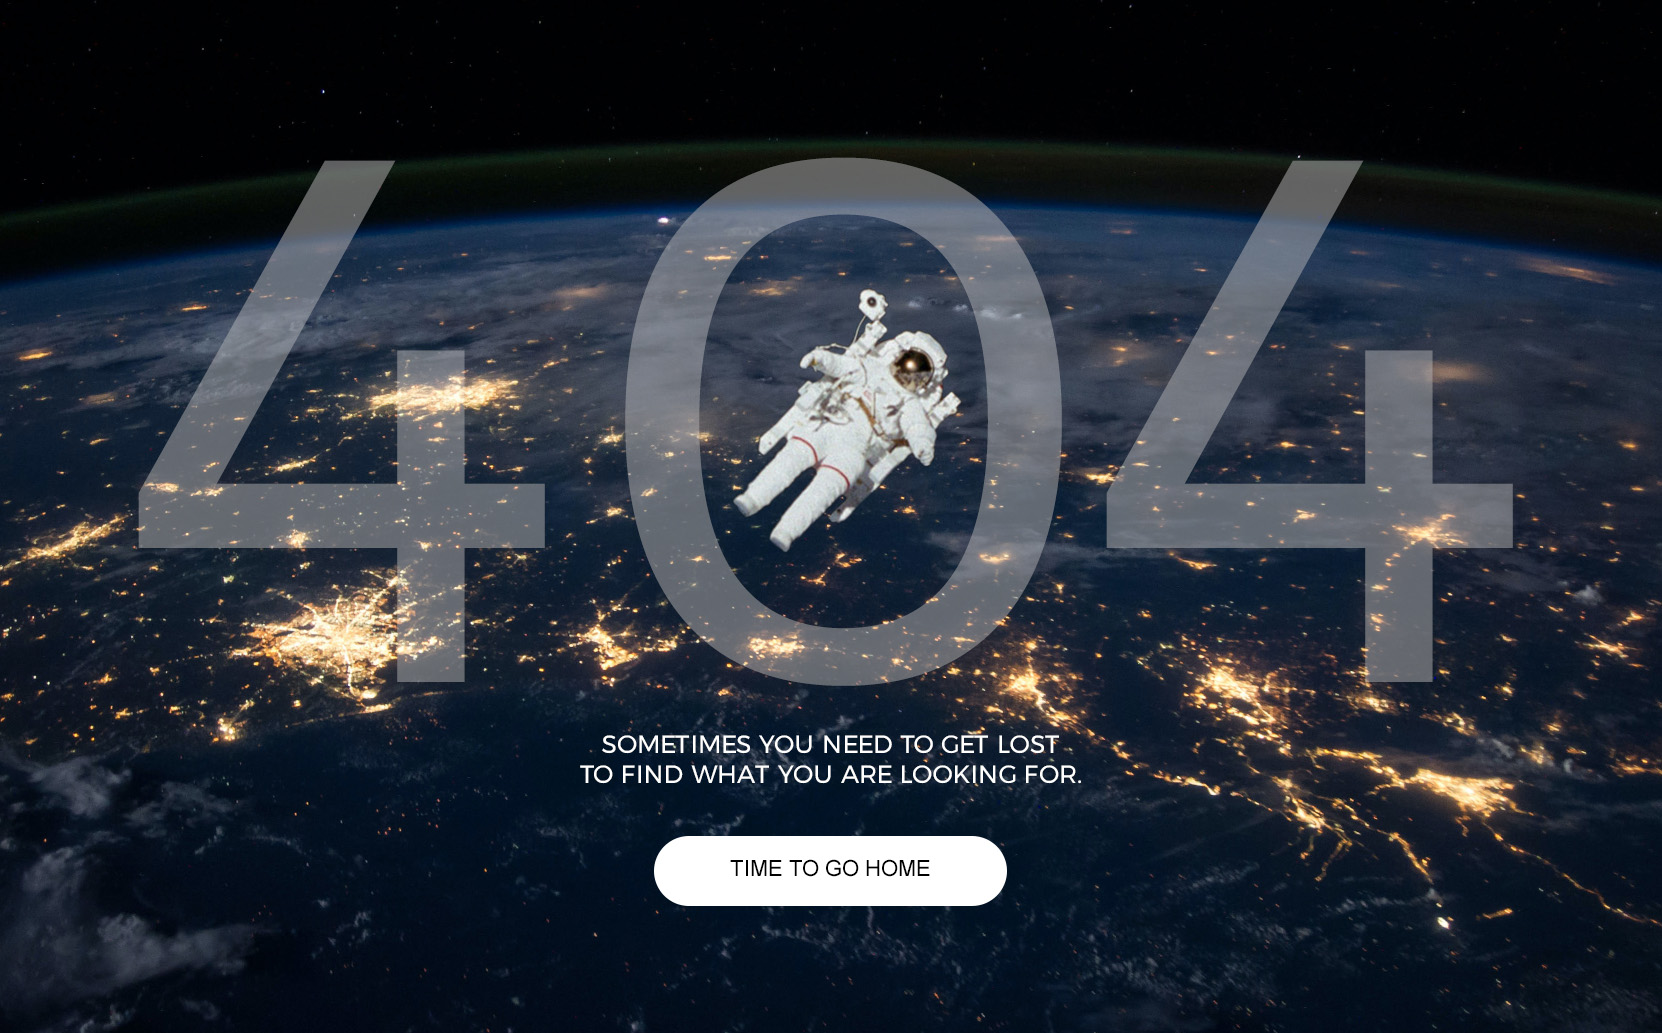
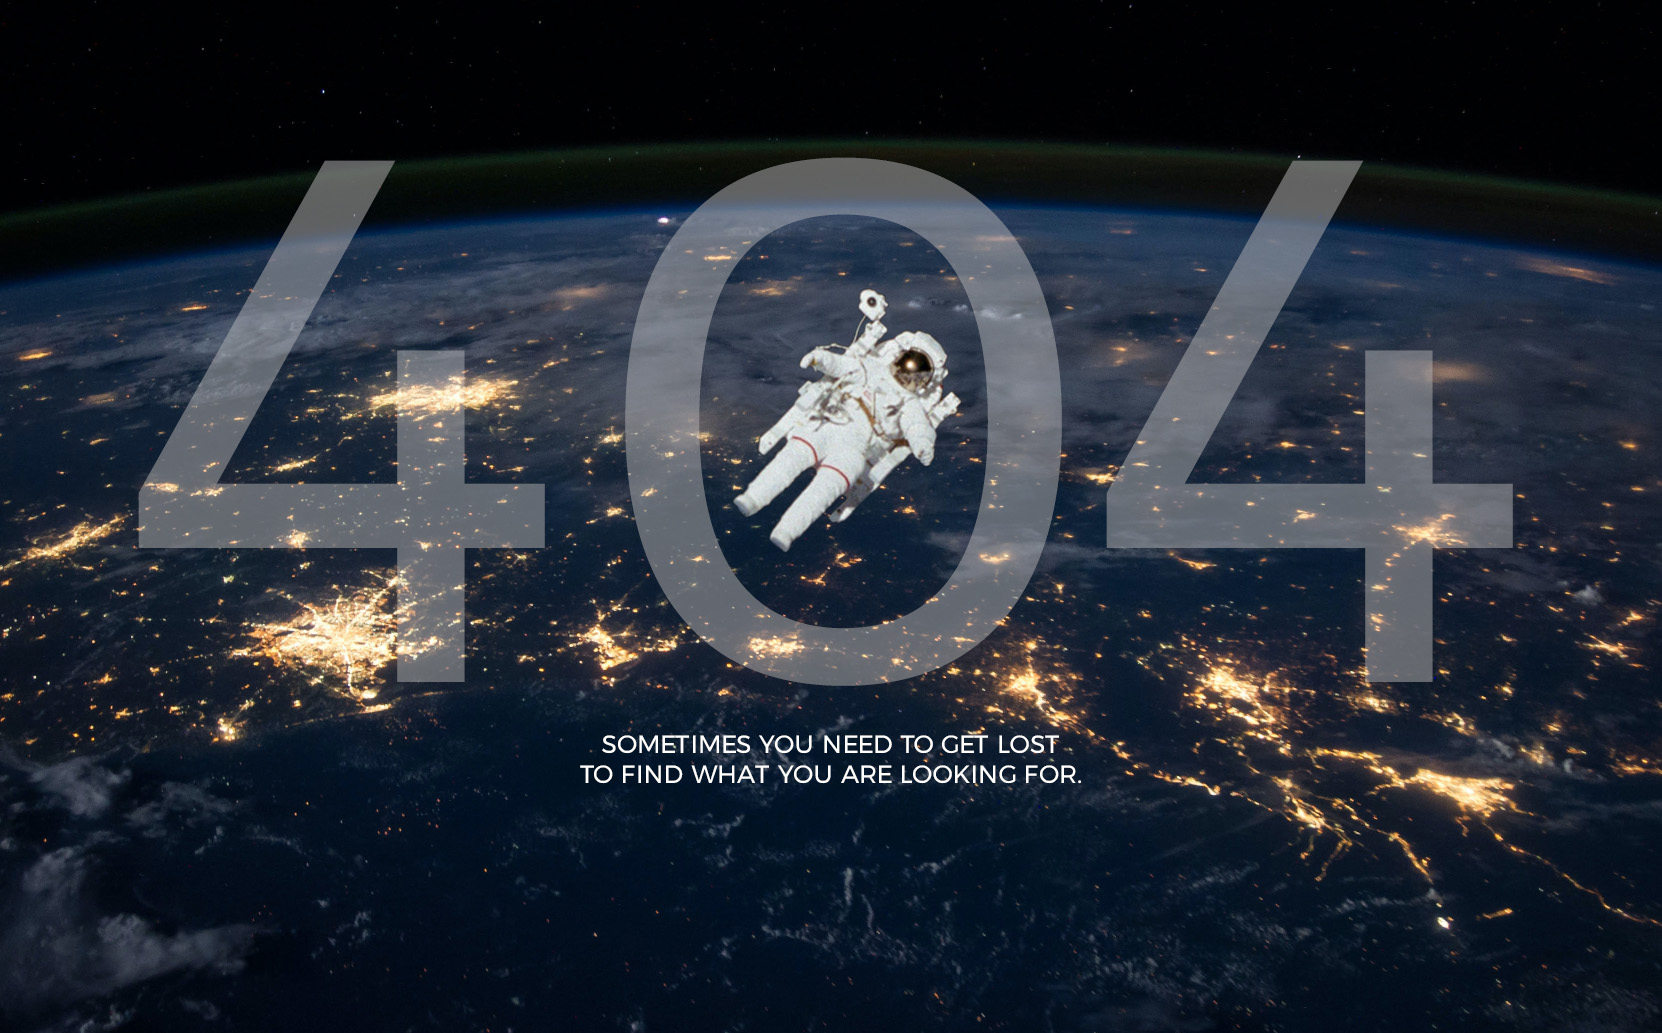
Frontend markets (#50)
* New 404 image

* finished up initial pass on markets page

Changed region(s): [[0.3682, 0.8054, 0.6137, 0.8984]]

diff --git a/web/web/markets/static/markets.js b/web/web/markets/static/markets.js
@@ -1,10 +1,19 @@
 import React from 'react';
 import ReactDOM from 'react-dom';
+import * as action from './actions';
+import AuctionChart from './auction';
 import { connect } from 'react-redux';
+import { Switch } from '@rmwc/switch';
+import { Button } from '@rmwc/button';
+import HistoricalChart from './historical';
+import { TextField } from '@rmwc/textfield';
+import AuctionMarketChart from './auction_market';
 import { selectMenuOption } from '../../static/js/actions';
 import ConnectedComponentWrapper from '../../static/js/base';
 
-import * as action from './actions';
+import '@rmwc/switch/styles';
+import '@rmwc/button/styles';
+import '@rmwc/textfield/styles';
 
 class Markets extends React.Component {
     componentDidMount() {
@@ -17,7 +26,86 @@ class Markets extends React.Component {
 
     render() {
         return (
-            <div></div>
+            <div className="power-dispatch-container">
+                <div className="power-dispatch-margin-fix">
+                    <div className="power-dispatch-chart-container">
+                        <div className="pd-chart-system-load">
+                            <AuctionMarketChart
+                                id="auction-market-chart"
+                                xTitle="Capacity (MW)" 
+                                yTitle="Price ($/MWh)"
+                                chartTitle="Auction Market"
+                                chartSubtitle="Transformer Capacity" />
+                        </div>
+                        <div className="pd-chart-resource">
+                            <AuctionChart
+                                id="auction-chart"
+                                xTitle="Time" 
+                                yTitle="Price ($/MWh)"
+                                chartTitle="Auction"
+                                chartSubtitle="" />
+                        </div>
+                    </div>
+
+                    <div className="power-dispatch-forms-container">
+                        <div className="pd-form-container">
+                            <div className="pd-form-title">
+                                <h3>Constraint and Alert Settings</h3>
+                            </div>
+
+                            <div>
+                                <h4>Alarms</h4>
+                                <div className="pd-form-row">
+                                    <div className="pd-form-element-label">Yellow Alarm</div>
+                                    <div className="pd-form-element-input">
+                                        <TextField outlined />
+                                    </div>
+                                    <div className="pd-form-element-unit">%</div>
+                                </div>
+                                <div className="pd-form-row">
+                                    <div className="pd-form-element-label">Red Alarm</div>
+                                    <div className="pd-form-element-input">
+                                        <TextField outlined />
+                                    </div>
+                                    <div className="pd-form-element-unit">%</div>
+                                </div>
+                            </div>
+                            
+                            <hr />
+                            
+                            <div>
+                                <h4>Alerts</h4>
+                                <div className="pd-form-row">
+                                    <div className="pd-form-element-label">Price</div>
+                                    <div className="pd-form-element-input">
+                                        <TextField outlined />
+                                    </div>
+                                    <div className="pd-form-element-unit">Percentile</div>
+                                </div>
+                            </div>
+                            
+                            <hr />
+                            
+                            <div className="pd-form-button-container">
+                                <Button 
+                                    label="SET" 
+                                    onClick={this.addNewRow}
+                                    outlined />
+                            </div>
+                        </div>    
+                    
+                        <div className="pd-form-container">
+                            <div className="pd-chart-system-load">
+                                <HistoricalChart
+                                    id="historical-market-chart"
+                                    xTitle="Time" 
+                                    yTitle="Price ($/MWh)"
+                                    chartTitle="Historical Data" />
+                            </div>
+                        </div>
+                    </div>
+                </div>
+            </div>
         );
     }
 }

diff --git a/web/web/markets/static/historical.js b/web/web/markets/static/historical.js
@@ -1,0 +1,78 @@
+import React from "react";
+import Chart from 'chart.js';
+
+class HistoricalChart extends React.Component {
+    componentDidMount() {
+        this.updateChart();
+    }
+
+    updateChart = () => {
+        const ctx = document.getElementById(this.props.id);
+        new Chart(ctx, {
+            // The type of chart we want to create
+            type: 'line',
+
+            // The data for our dataset
+            data: {
+                labels: ['January', 'February', 'March', 'April', 'May', 'June', 'July'],
+                datasets: [
+                    {
+                        label: 'My First dataset',
+                        fill: false,
+                        backgroundColor: 'rgb(255, 99, 132)',
+                        borderColor: 'rgb(255, 99, 132)',
+                        data: [0, 10, 5, 2, 20, 30, 45]
+                    },
+                    {
+                        label: 'My Second dataset',
+                        fill: false,
+                        backgroundColor: 'rgb(55, 99, 255)',
+                        borderColor: 'rgb(55, 99, 255)',
+                        data: [0, 50, 3, 20, 20, 20, 15]
+                    }
+                ]
+            },
+
+            // Configuration options go here
+            options: {
+                responsive: true,
+				title: {
+					display: true,
+					text: this.props.chartTitle
+				},
+				tooltips: {
+					mode: 'index',
+					intersect: false,
+				},
+				hover: {
+					mode: 'nearest',
+					intersect: true
+				},
+				scales: {
+					xAxes: [{
+						display: true,
+						scaleLabel: {
+							display: true,
+							labelString: this.props.xTitle
+						}
+					}],
+					yAxes: [{
+						display: true,
+						scaleLabel: {
+							display: true,
+							labelString: this.props.yTitle
+						}
+					}]
+				}
+            }
+        });
+    }
+
+    render() {
+        return (
+            <canvas id={this.props.id} width="500px" height="350px"></canvas>
+        );
+    }
+}
+
+export default HistoricalChart;

diff --git a/web/web/markets/static/auction.js b/web/web/markets/static/auction.js
@@ -1,0 +1,78 @@
+import React from "react";
+import Chart from 'chart.js';
+
+class AuctionChart extends React.Component {
+    componentDidMount() {
+        this.updateChart();
+    }
+
+    updateChart = () => {
+        const ctx = document.getElementById(this.props.id);
+        new Chart(ctx, {
+            // The type of chart we want to create
+            type: 'line',
+
+            // The data for our dataset
+            data: {
+                labels: ['January', 'February', 'March', 'April', 'May', 'June', 'July'],
+                datasets: [
+                    {
+                        label: 'My First dataset',
+                        fill: false,
+                        backgroundColor: 'rgb(255, 99, 132)',
+                        borderColor: 'rgb(255, 99, 132)',
+                        data: [0, 10, 5, 2, 20, 30, 45]
+                    },
+                    {
+                        label: 'My Second dataset',
+                        fill: false,
+                        backgroundColor: 'rgb(55, 99, 255)',
+                        borderColor: 'rgb(55, 99, 255)',
+                        data: [0, 50, 3, 20, 20, 20, 15]
+                    }
+                ]
+            },
+
+            // Configuration options go here
+            options: {
+                responsive: true,
+				title: {
+					display: true,
+					text: this.props.chartTitle
+				},
+				tooltips: {
+					mode: 'index',
+					intersect: false,
+				},
+				hover: {
+					mode: 'nearest',
+					intersect: true
+				},
+				scales: {
+					xAxes: [{
+						display: true,
+						scaleLabel: {
+							display: true,
+							labelString: this.props.xTitle
+						}
+					}],
+					yAxes: [{
+						display: true,
+						scaleLabel: {
+							display: true,
+							labelString: this.props.yTitle
+						}
+					}]
+				}
+            }
+        });
+    }
+
+    render() {
+        return (
+            <canvas id={this.props.id} width="500px" height="350px"></canvas>
+        );
+    }
+}
+
+export default AuctionChart;

diff --git a/web/web/markets/static/auction_market.js b/web/web/markets/static/auction_market.js
@@ -1,0 +1,81 @@
+import React from "react";
+import Chart from 'chart.js';
+
+class AuctionMarketChart extends React.Component {
+    componentDidMount() {
+        this.updateChart();
+    }
+
+    updateChart = () => {
+        const ctx = document.getElementById(this.props.id);
+        new Chart(ctx, {
+            // The type of chart we want to create
+            type: 'bar',
+
+            // The data for our dataset
+            data: {
+                labels: ['January', 'February', 'March', 'April', 'May', 'June', 'July'],
+			    datasets: [
+                    {
+                        label: 'Dataset 1',
+                        backgroundColor: 'red',
+                        data: [1,2,3,4,5,6,7]
+                    },
+                    {
+                        label: 'Dataset 2',
+                        backgroundColor: 'blue',
+                        data: [7,6,5,4,3,2,1]
+                    },
+                    {
+				        label: 'Dataset 3',
+				        backgroundColor: 'green',
+                        data: [11,21,31,4,15,6,17]
+                    }
+                ]
+            },
+
+            // Configuration options go here
+            options: {
+                responsive: true,
+				title: {
+					display: true,
+					text: this.props.chartTitle
+				},
+				tooltips: {
+					mode: 'index',
+					intersect: false,
+				},
+				hover: {
+					mode: 'nearest',
+					intersect: true
+				},
+				scales: {
+					xAxes: [{
+                        stacked: true,
+						display: true,
+						scaleLabel: {
+							display: true,
+							labelString: this.props.xTitle
+						}
+					}],
+					yAxes: [{
+                        stacked: true,
+						display: true,
+						scaleLabel: {
+							display: true,
+							labelString: this.props.yTitle
+						}
+					}]
+				}
+            }
+        });
+    }
+
+    render() {
+        return (
+            <canvas id={this.props.id} width="500px" height="350px"></canvas>
+        );
+    }
+}
+
+export default AuctionMarketChart;
